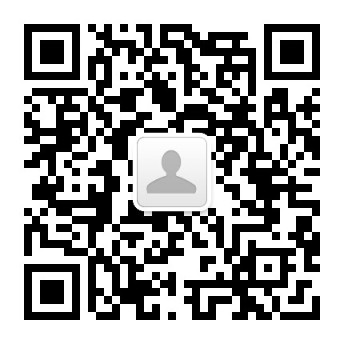
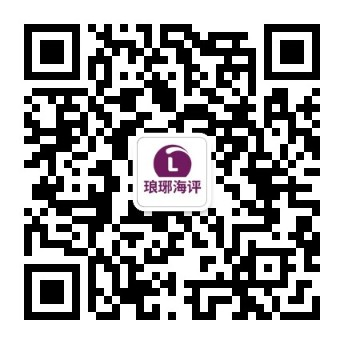
模型详情增加总评分，多点登录前端刷新（未完善），logo和微信公众号图片更新

Changed region(s): [[0.407, 0.407, 0.5814, 0.6105]]

diff --git a/src/components/guidePage/NavBar.vue b/src/components/guidePage/NavBar.vue
@@ -3,24 +3,10 @@
         <div class="navbar-wrapper">
             <div class="header-container">
                 <div class="logo-container">
-                    <a href="https://cs.nankai.edu.cn/" target="_blank" class="logo-link">
+                    <a href="https://langyahaiping.com/" target="_blank" class="logo-link">
                         <img
-                            src="./images/nkcs_logo.png"
-                            alt="南开大学软件学院"
-                            class="logo"
-                        />
-                    </a>
-                    <a href="https://www.hl-it.cn/" target="_blank" class="logo-link">
-                        <img
-                            src="./images/xinchuang_logo.png"
-                            alt="信创海河实验室"
-                            class="logo"
-                        />
-                    </a>
-                    <a href="http://www.datum.com.cn/" target="_blank" class="logo-link">
-                        <img
-                            src="./images/diantong_logo.png"
-                            alt="点通"
+                            src="./images/langya.png"
+                            alt="琅琊海评"
                             class="logo"
                         />
                     </a>
@@ -264,7 +250,6 @@ export default {
             localStorage.removeItem('token'); 
             localStorage.removeItem('userName');
             localStorage.removeItem('userAvatar');
-            
             if (this.$route.path === '/center') {
                 this.$router.push('/'); // 重定向到首页
             } else {
@@ -293,7 +278,7 @@ export default {
     font-weight: 400;
     font-family: Inter, Helvetica Neue, Helvetica, PingFang SC, Hiragino Sans GB,
         Microsoft YaHei, 微软雅黑, Arial, sans-serif;
-    z-index: 8000;
+    z-index: 1000;
     box-shadow: 0 2px 8px rgba(0, 0, 0, 0.1);
 }
 .navbar-wrapper {
@@ -319,24 +304,24 @@ export default {
     gap: 15px;
 }
 .logo-link {
-    height: 32px; /*从40px减少到32px*/
+    height: 48px; /* 原32px，放大为48px */
     display: flex;
     align-items: center;
 }
 .logo-container > a:first-child {
-    width: 120px; /* 调整第一个 logo 的宽度 */
+    width: 200px; /* 原160px，适当放大 */
 }
 .logo-container > a:nth-child(2) {
     width: 100px; /* 增加第二个 logo (xinchuang) 的宽度，从80px增加到100px */
 }
 .logo-container > a:nth-child(3) {
-    width: 80px; /* 保持第三个 logo 的宽度 */
+    width: 160px; /* 保持第三个 logo 的宽度 */
 }
 .logo {
     position: relative;
-    height: 100%;
-    max-width: 100%;
-    max-height: 100%;
+    height: 48px;    /* 原120%，改为固定48px */
+    max-width: 100%; /* 保证不超出容器 */
+    max-height: 48px;
     object-fit: contain;
 }
 .nav-center {
@@ -544,14 +529,15 @@ export default {
     .user-container {
         flex: 1; /* 在移动端给用户区域较少空间 */
     }
+    .logo-link {
+        height: 36px; /* 移动端适当缩小 */
+    }
+    .logo {
+        height: 36px;
+        max-height: 36px;
+    }
     .logo-container > a:first-child {
-        width: 100px;
-    }
-    .logo-container > a:nth-child(2) {
-        width: 80px;
-    }
-    .logo-container > a:nth-child(3) {
-        width: 60px;
+        width: 120px;
     }
 }
 @media screen and (max-width: 480px) {

diff --git a/src/components/ModelDetail.vue b/src/components/ModelDetail.vue
@@ -65,6 +65,18 @@
               >
             </div>
           </div>
+          <div class="text-wrapper_100 flex-col justify-between">
+            <div class="block score-row">
+                <el-rate
+                    v-model="value2"
+                    :colors="colors"
+                    :disabled="true"
+                    style="font-size:20px;"
+                ></el-rate>
+                <span v-if="value2" class="score-text">{{ value2 }}分</span>
+            </div>
+            <span class="text_100">总评分</span>
+          </div>
           <div class="text-wrapper_7 flex-col justify-between">
             <span class="text_45">{{ modelData.data.institution }}</span>
             <span class="text_46">发布机构</span>
@@ -117,6 +129,8 @@ export default{
       isFavorited: false, // 存储收藏状态
       modelId: null,
       showTooltip: false, // 控制提示文本的显示
+      value2:  5, // 新增
+      colors: ['#99A9BF', '#F7BA2A', '#FF9900'], // 新增
     }
   },
 
@@ -1346,7 +1360,7 @@ export default{
 }
 
 .text_44 {
-  max-width: 700px; /* 设置最大宽度 */
+  max-width: 500px; /* 设置最大宽度 */
   height: auto; /* 自动调整高度 */
   overflow-wrap: break-word; /* 自动换行 */
   word-break: break-word; /* 防止长单词溢出 */
@@ -1359,10 +1373,41 @@ export default{
   margin-left: -10px; /* 向左移动 10px */
 }
 
+.text-wrapper_100{
+    width: 64px;
+    height: 54px;
+    margin: 0 0 0 100px; /* 调整左边距 */
+    display: flex; /* 使用 flex 布局 */
+    flex-direction: column; /* 垂直排列子元素 */
+    align-items: center; /* 子元素垂直居中 */
+    justify-content: center; /* 子元素垂直居中 */
+}
+
+.score-row {
+  display: flex;
+  align-items: center;
+  margin-left: 30px; /* 可根据需要调整 */
+  margin-top: 1px;    /* 去掉原有的margin-top */
+}
+
+.score-text {
+  display: inline-block;
+  vertical-align: middle;
+  margin-left: 3px;
+  color: #F7BA2A;
+  font-size: 16px;
+  line-height: 1;
+  /* 去掉宽高限制，确保内容水平排列 */
+  width: auto;
+  height: auto;
+  white-space: nowrap; /* 关键：防止“5分”换行 */
+  /* 去掉 margin-bottom，避免下沉 */
+}
+
 .text-wrapper_7 {
   width: 64px;
   height: 54px;
-  margin: 5px 15px 0 320px;
+  margin: 5px 15px 0 90px;
   display: flex; /* 使用 flex 布局 */
   flex-direction: column; /* 垂直排列子元素 */
   align-items: center; /* 子元素垂直居中 */
@@ -2696,5 +2741,18 @@ height: 850px;
 justify-content: flex-center;
 margin: 960px 120px 0 -1338px;
 position: absolute; /* 相对于最近的定位父容器 */
+}
+
+.text_100 {
+  width: 56px;
+  height: 20px;
+  overflow-wrap: break-word;
+  color: rgba(143, 148, 164, 1);
+  font-size: 14px;
+  font-weight: normal;
+  text-align: left;
+  white-space: nowrap;
+  line-height: 20px;
+  text-align: center; /* 水平居中对齐 */
 }
 </style>

diff --git a/src/App.vue b/src/App.vue
@@ -8,12 +8,54 @@
 <script>
 import GuidePage from "./views/GuidePage.vue";
 import Footer from "./components/Footer.vue";
+import NavBar from "./components/guidePage/NavBar.vue"; // 导入NavBar
+
 export default {
     name: "App",
     components: {
         GuidePage,
         Footer,
+        NavBar, // 注册NavBar
     },
+    mounted() {
+        this.checkLoginInterval = setInterval(this.checkLoginStatus, 10000); // 每10秒检测一次
+    },
+    beforeUnmount() {
+        clearInterval(this.checkLoginInterval);
+    },
+    methods: {
+        async checkLoginStatus() {
+            const token = localStorage.getItem('token');
+            if (!token) return;
+            try {
+                const res = await fetch('http://49.233.82.133:9091/user/favorites', {
+                    method: 'GET',
+                    headers: { Authorization: `Bearer ${token}` }
+                });
+                const data = await res.json();
+                if (data && data.success === false && data.errorMsg === "登录已过期，请重新登录") {
+                    alert('登录已过期，请重新登录');
+                    // 调用NavBar中的logout方法
+                    // 通过事件总线或$refs调用
+                    if (this.$refs.navbar && this.$refs.navbar.logout) {
+                        this.$refs.navbar.logout();
+                    } else {
+                        // 兼容NavBar未挂载时的兜底处理
+                        localStorage.removeItem('token');
+                        localStorage.removeItem('userName');
+                        localStorage.removeItem('userAvatar');
+                        if (this.$route.path === '/center') {
+                            this.$router.push('/'); // 重定向到首页
+                        } else {
+                            location.reload(); // 刷新当前页面
+                        }
+                    }
+                }
+            } catch (e) {
+                // 可选：处理网络异常
+            }
+        }
+    }
 };
 </script>
 

diff --git a/index.html b/index.html
@@ -2,7 +2,7 @@
 <html lang="en">
   <head>
     <meta charset="UTF-8">
-    <link rel="icon" href="/favicon.ico">
+    <link rel="icon" href="/langya.png">
     <meta name="viewport" content="width=device-width, initial-scale=1.0">
     <title>琅琊海评</title>
   </head>
